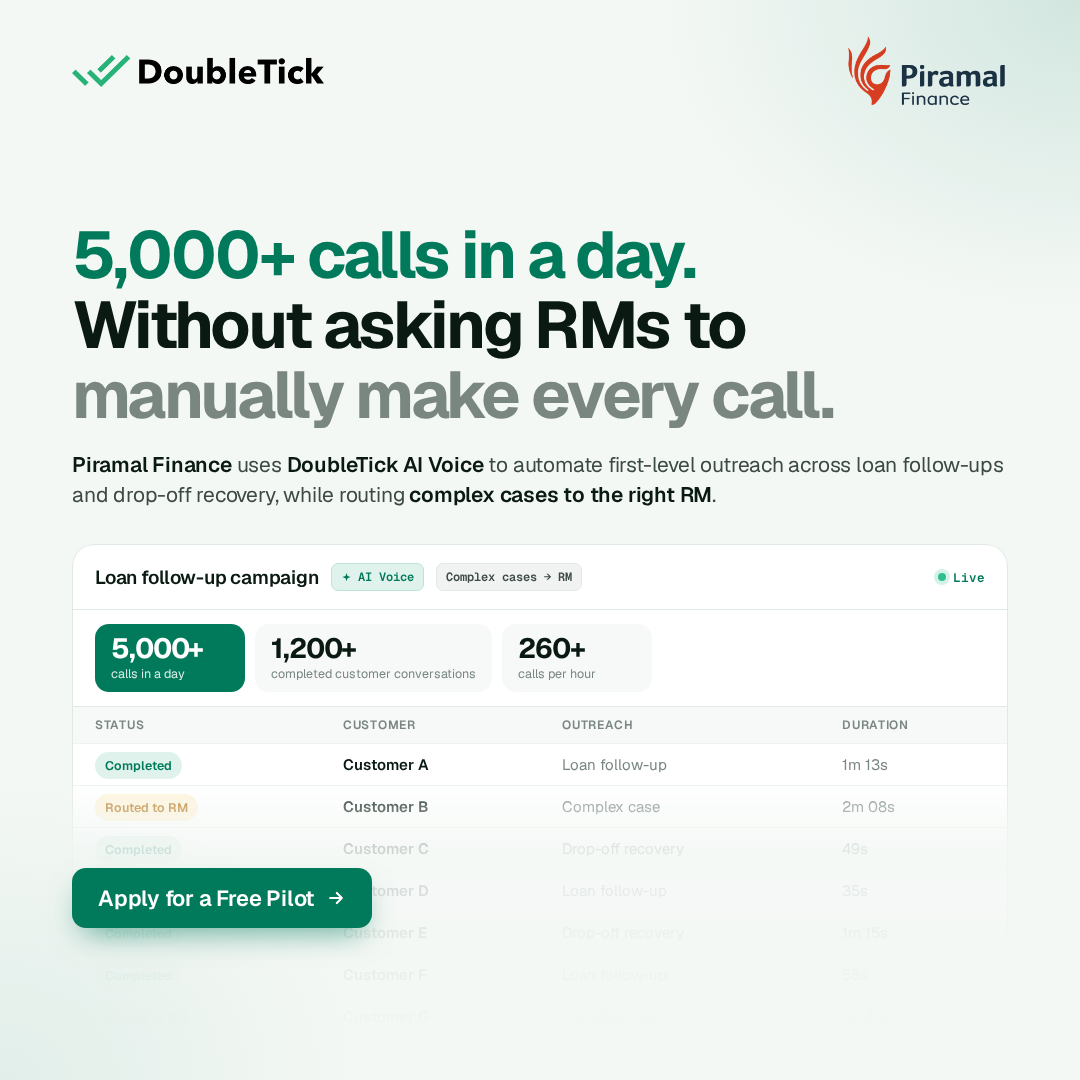
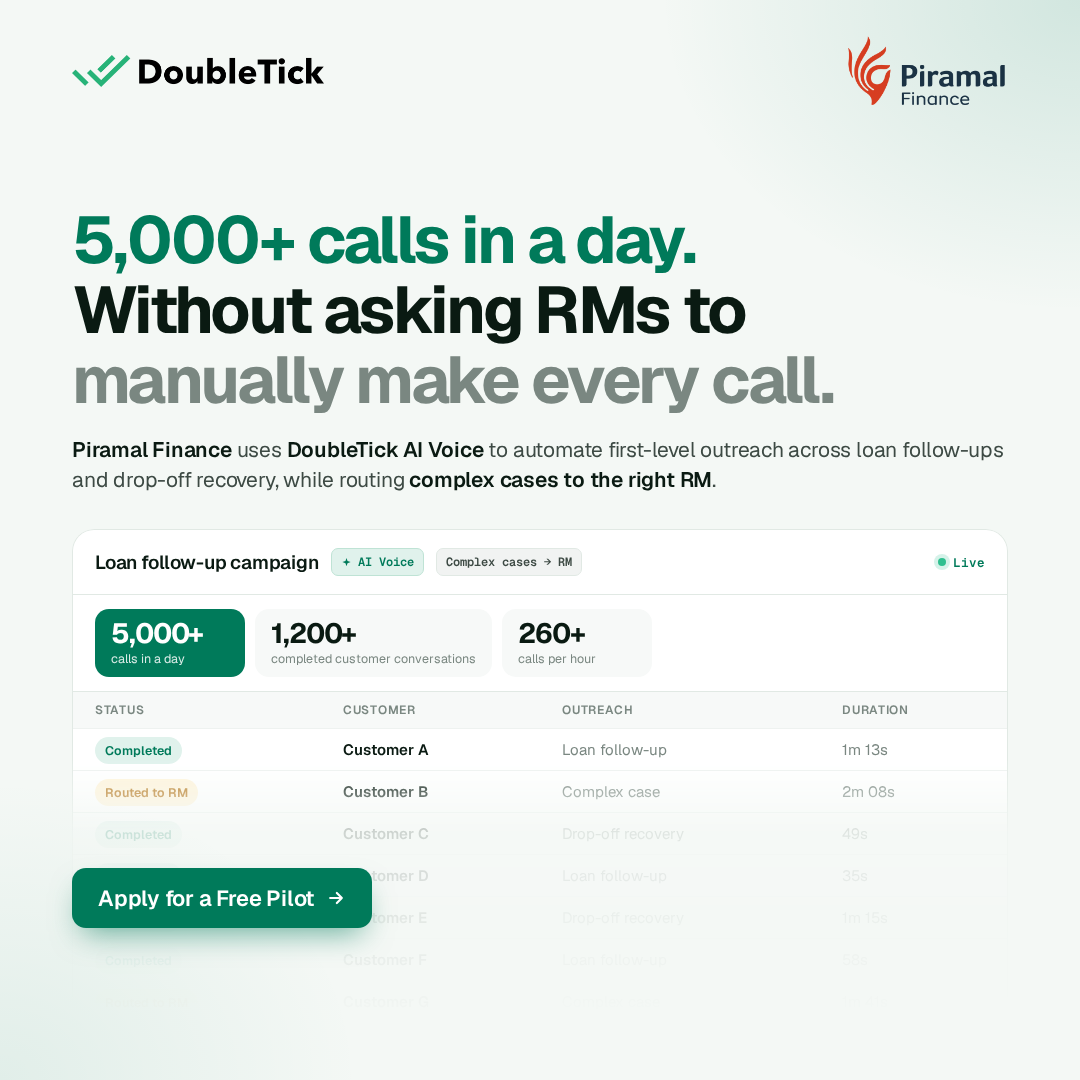
feat: move Piramal volume ad content up 15px more
Claude-Session: https://claude.ai/code/session_013Hi5o4KgvuLbKTeGkStAKX

Changed region(s): [[0.0611, 0.1833, 0.9167, 0.7944], [0.7639, 0.6417, 0.8556, 0.7639], [0.8556, 0.4889, 0.9167, 0.55]]

diff --git a/ads/doubletick-case-piramal-volume/index.html b/ads/doubletick-case-piramal-volume/index.html
@@ -52,7 +52,7 @@
   }
   .pill i { width: 8px; height: 8px; border-radius: 50%; background: var(--green-2); box-shadow: 0 0 0 4px rgba(47,191,143,.25); }
 
-  h1 { margin-top: 90px; font-size: 66px; line-height: 1.06; letter-spacing: -0.04em; font-weight: 700; }
+  h1 { margin-top: 75px; font-size: 66px; line-height: 1.06; letter-spacing: -0.04em; font-weight: 700; }
   h1 .drop { color: var(--muted); }
   h1 .die { color: var(--red); }
   h1 em { font-style: normal; color: var(--green); }
@@ -61,7 +61,7 @@
 
   /* visual: simplified campaign dashboard, fading off the bottom edge */
   .ad::before { display: none; }
-  .ad > .vis { position: absolute; left: 72px; top: 544px; width: 936px; height: 606px; }
+  .ad > .vis { position: absolute; left: 72px; top: 529px; width: 936px; height: 606px; }
   .dash { position: absolute; inset: 0; overflow: hidden; background: #fff; border: 1px solid var(--line); border-bottom: 0; border-radius: 22px 22px 0 0;
     box-shadow: 0 18px 40px -24px rgba(10,26,18,.35);
     -webkit-mask-image: linear-gradient(#000 38%, rgba(0,0,0,.16) 50%, rgba(0,0,0,.06) 66%, transparent 82%);
